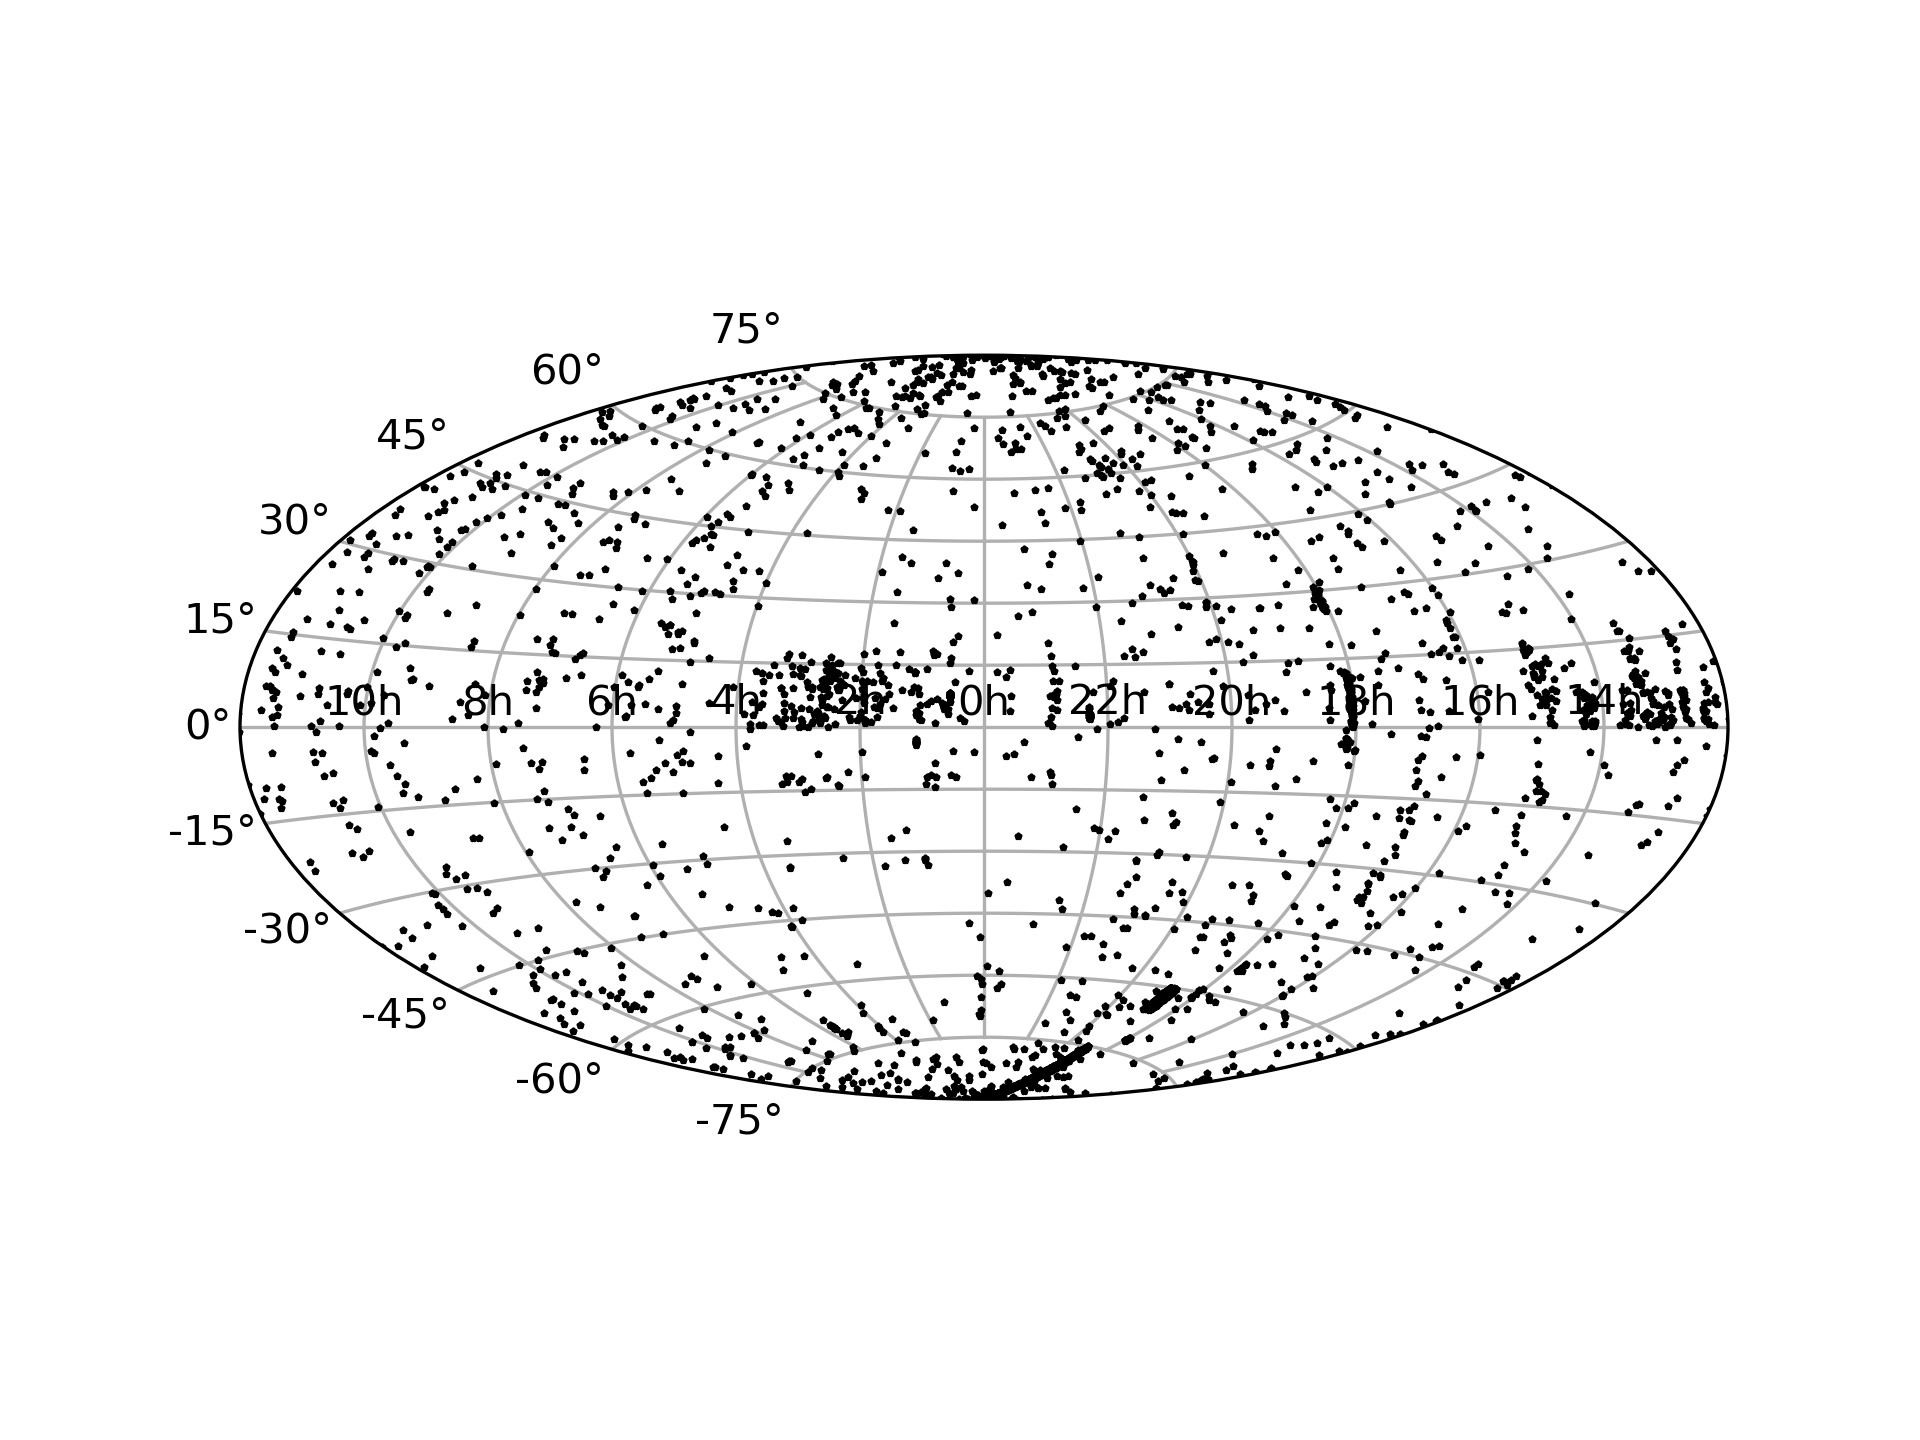
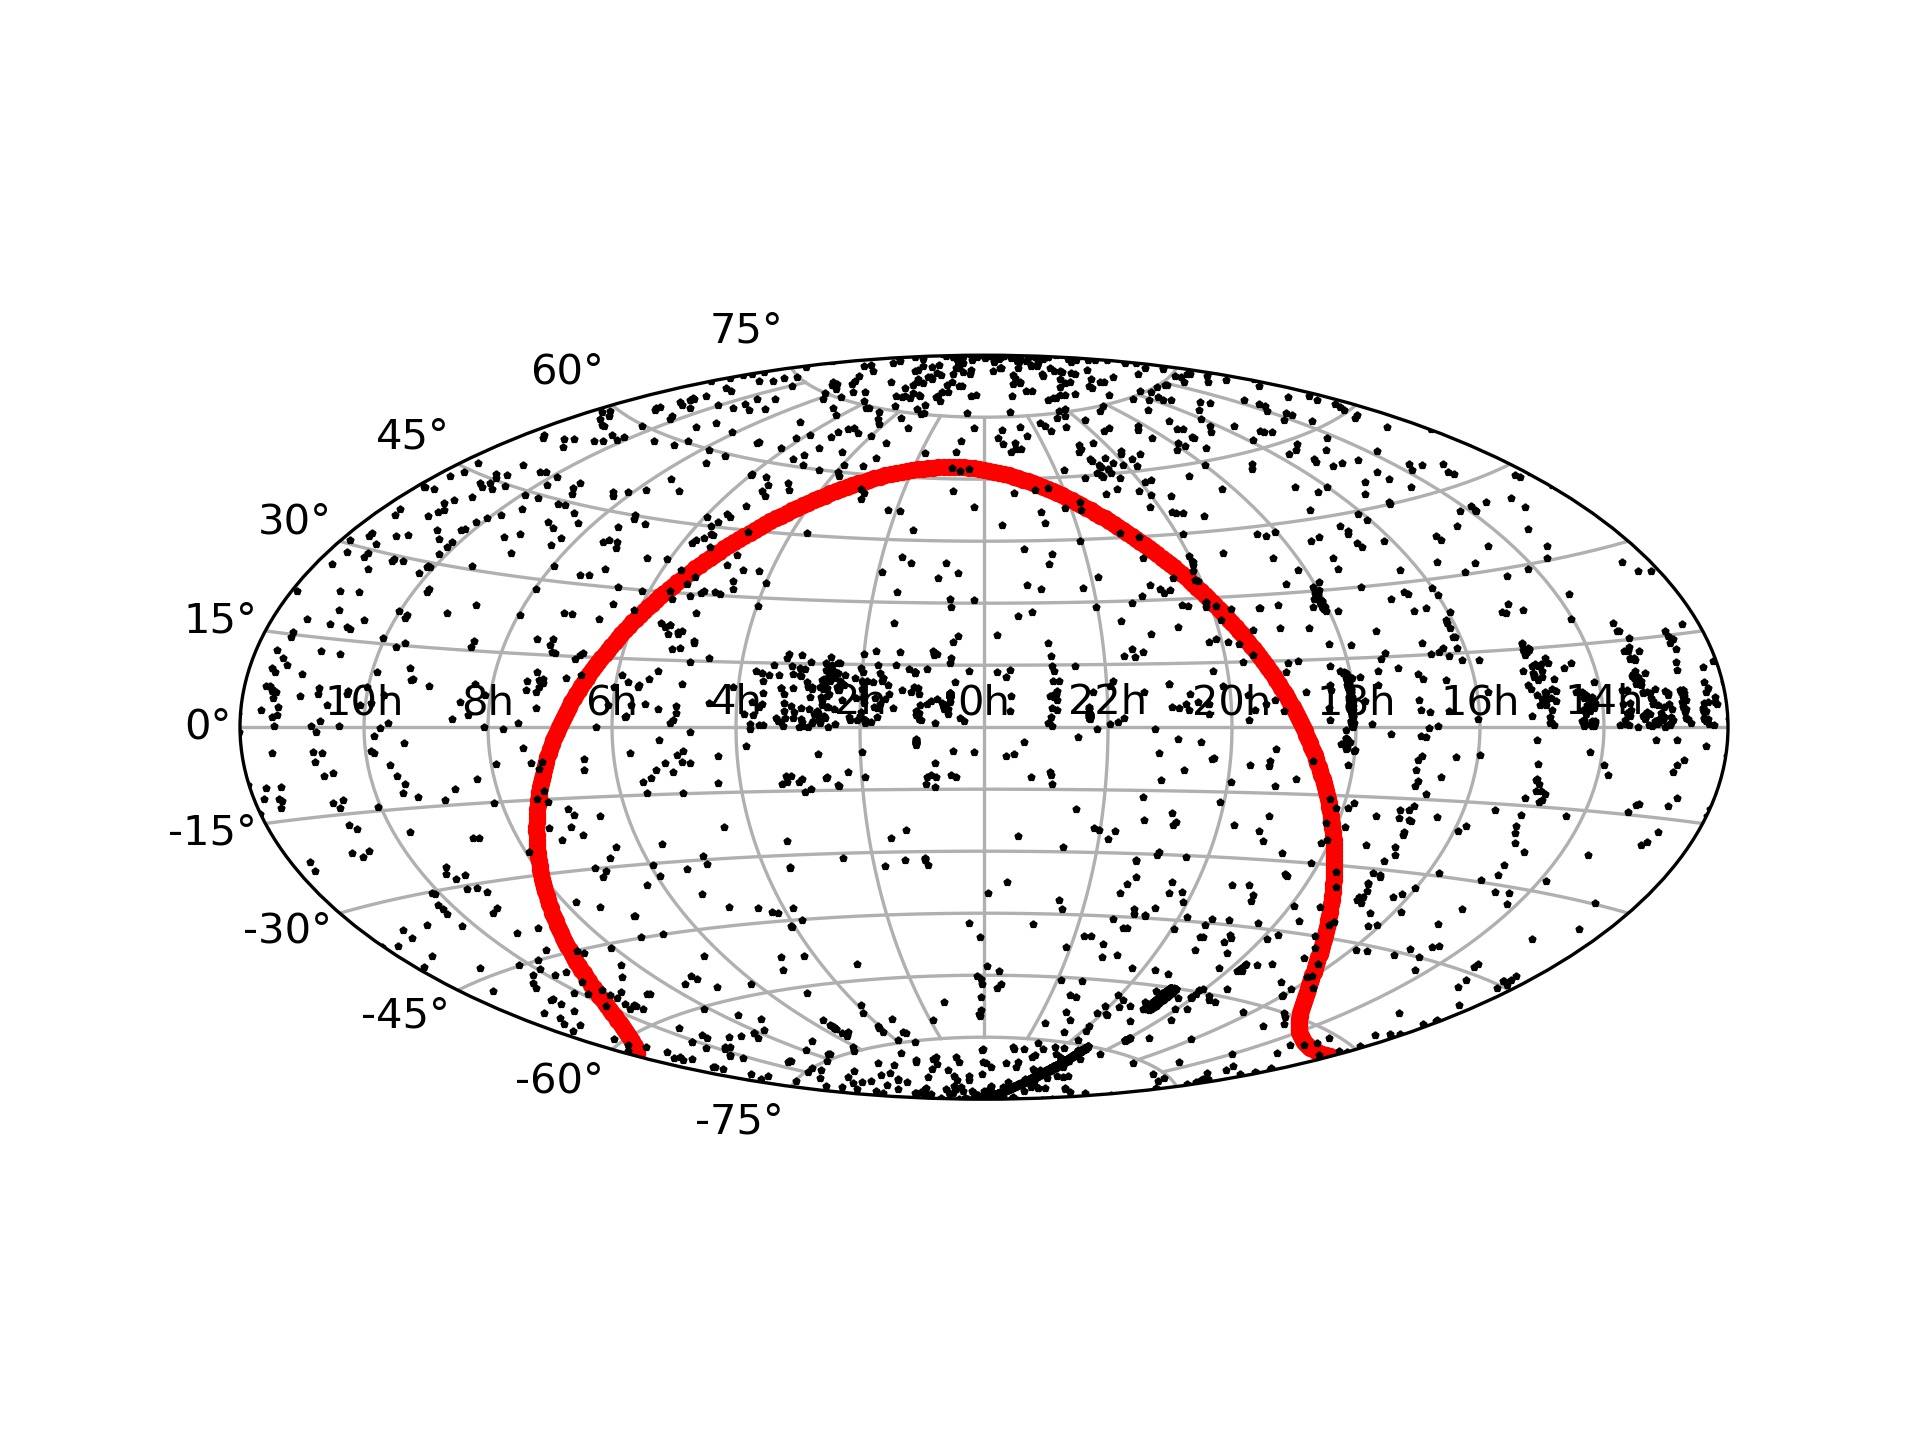
Added Galactic Plane

diff --git a/Vis.py b/Vis.py
@@ -7,6 +7,8 @@ This code produces a sky map of Be stars using an aitoff projection with include
 import matplotlib.pyplot as plt # allows plot to be made
 import numpy as np # allows for conversion between radians and degress and second method to read text in.
 from astroquery.simbad import Simbad
+from astropy.coordinates import SkyCoord
+import astropy.units as u
 def ConvRA(RA):
 	RA=RA.strip()
 	RA=RA.split(' ')
@@ -59,7 +61,7 @@ x=-x
 
 #making range boxs
 
-ax.scatter(np.radians(x),np.radians(Dec),marker='*',s=1,color='k',label=None)
+ax.scatter(np.radians(x),np.radians(Dec),marker='*',s=1,color='k',label=None,zorder=100)
 
 #plotting Glactic Plane
 #creating galactic plane in glatic coordinates
@@ -72,11 +74,10 @@ RAGal=ga.ra.wrap_at(180*u.deg).radian
 DECGal=ga.dec.radian
 RAGal=-RAGal
 #plotting  galactic plane
-plt.scatter(RAGal,DECGal,c='red',s=10)
+plt.scatter(RAGal,DECGal,c='red',s=10,zorder=1,label="Glactic Plane")
 
 #relabeling tickmarks to hours
 ax.set_xticklabels(np.array(['10h', '8h','6h','4h', '2h','0h','22h','20h','18h','16h','14h']),color='k')
-
 label="KMap.jpg"
 plt.savefig(label,format='jpg',dpi=300)
 
